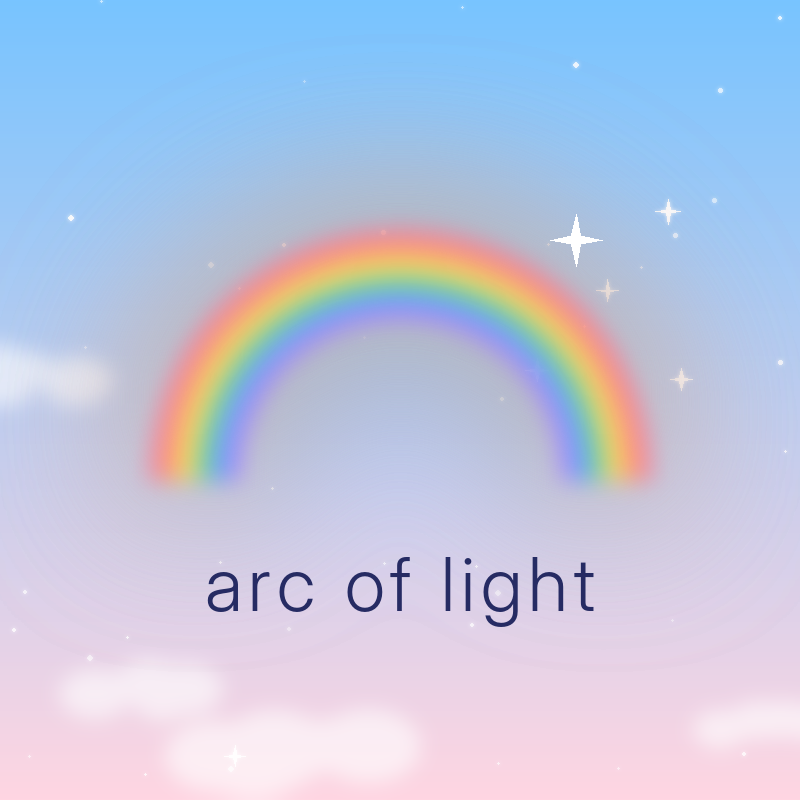
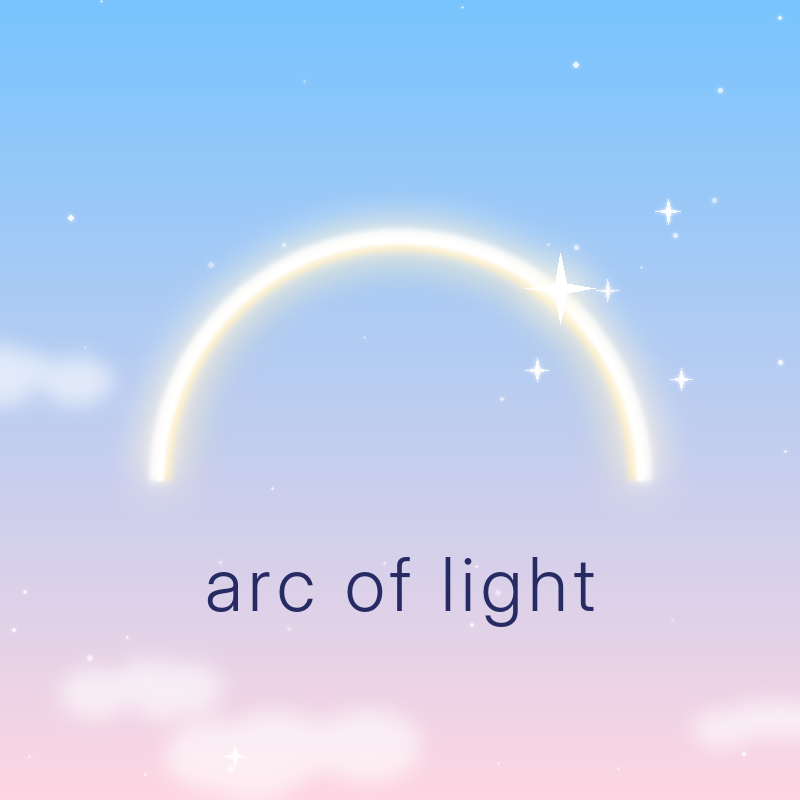
arc of light：昼の広場の写真版（虹なし・光の弧）のアイコンとバナー
Claude-Session: https://claude.ai/code/session_016yye45m5vLS41jvX7Nye7Y

Changed region(s): [[0.125, 0.1875, 0.875, 0.625]]

diff --git a/arc_of_light/make_brand_images.py b/arc_of_light/make_brand_images.py
@@ -116,8 +116,17 @@ def text(im, s, font, cx, cy, spacing, fill=(255, 255, 255, 245), glow=True):
     im.alpha_composite(layer)
 
 
-# 昼の虹は色をはっきりめに
-DAY_RAINBOW = [(255, 120, 150), (255, 170, 100), (255, 220, 90), (110, 215, 150), (90, 170, 255), (165, 130, 255)]
+# 昼の版は虹ではなく「光の弧」：白から淡い金色の細い弧を、明るく光らせる
+LIGHT_ARC = [(255, 255, 255), (255, 247, 220), (255, 232, 170)]
+
+
+def flare(im, x, y, s):
+    # 弧の先に置く光の粒（大きなきらめき＋やわらかい光の輪）
+    layer = Image.new("RGBA", im.size, (255, 255, 255, 0))
+    d = ImageDraw.Draw(layer)
+    d.ellipse([x - s, y - s, x + s, y + s], fill=(255, 250, 225, 200))
+    im.alpha_composite(blur(layer, s * 0.9))
+    star(ImageDraw.Draw(im), x, y, s * 1.6, 255)
 
 
 def clouds(size, seed, n, avoid=None):
@@ -144,8 +153,9 @@ def icon_day():
     im = gradient(w, h, DAY_TOP, DAY_BOTTOM).convert("RGBA")
     im.alpha_composite(clouds((w, h), 2, 4, avoid=(120, 180, 680, 680)))
     im.alpha_composite(sparkles((w, h), 40, 5, big=5, avoid=(150, 520, 650, 650)))
-    im.alpha_composite(arc((w, h), w / 2, h * 0.60, 250, 90, DAY_RAINBOW))
-    star(ImageDraw.Draw(im), w * 0.72, h * 0.30, 26, 255)
+    im.alpha_composite(arc((w, h), w / 2, h * 0.60, 250, 22, LIGHT_ARC))
+    im.alpha_composite(arc((w, h), w / 2, h * 0.60, 244, 8, [(255, 255, 255)]))
+    flare(im, w / 2 + 250 * math.cos(math.radians(-50)), h * 0.60 + 250 * math.sin(math.radians(-50)), 22)
     text(im, "arc of light", ImageFont.truetype(FONT, 74), w / 2, h * 0.73, 6, fill=INK, glow=False)
     im.convert("RGB").save(OUT / "icon_day_800.png")
 
@@ -156,7 +166,9 @@ def banner_day():
     sx0, sy0 = (w - 1546) / 2, (h - 423) / 2
     im.alpha_composite(clouds((w, h), 9, 9, avoid=(sx0 - 100, sy0 - 80, sx0 + 1646, sy0 + 503)))
     im.alpha_composite(sparkles((w, h), 160, 11, big=12, avoid=(sx0 - 60, sy0 - 60, sx0 + 1606, sy0 + 483)))
-    im.alpha_composite(arc((w, h), w / 2, sy0 + 330, 300, 70, DAY_RAINBOW))
+    im.alpha_composite(arc((w, h), w / 2, sy0 + 330, 300, 24, LIGHT_ARC))
+    im.alpha_composite(arc((w, h), w / 2, sy0 + 330, 294, 8, [(255, 255, 255)]))
+    flare(im, w / 2 + 300 * math.cos(math.radians(-50)), sy0 + 330 + 300 * math.sin(math.radians(-50)), 26)
     text(im, "arc of light", ImageFont.truetype(FONT, 120), w / 2, sy0 + 265, 12, fill=INK, glow=False)
     text(im, "pop  ·  chill  ·  ballad  ·  bgm", ImageFont.truetype(FONT, 40), w / 2, sy0 + 372, 10, fill=(60, 64, 120, 230), glow=False)
     im.convert("RGB").save(OUT / "banner_day_2560x1440.png")
@@ -196,3 +208,58 @@ if __name__ == "__main__":
     icon_day()
     banner_day()
     print("done")
+
+
+def photo_bg(path, w, h, bright=1.08, soften=0):
+    # 写真を枠いっぱいに切り抜き、少し明るく、やわらかくする
+    from PIL import ImageEnhance
+    p = Image.open(path).convert("RGB")
+    s = max(w / p.width, h / p.height)
+    p = p.resize((int(p.width * s) + 1, int(p.height * s) + 1), Image.LANCZOS)
+    x, y = (p.width - w) // 2, (p.height - h) // 2
+    p = p.crop((x, y, x + w, y + h))
+    p = ImageEnhance.Brightness(p).enhance(bright)
+    p = ImageEnhance.Color(p).enhance(1.1)
+    if soften:
+        # ぼかして、写真の中の看板や文字を読めなくし、ロゴの文字を引き立てる
+        p = p.filter(ImageFilter.GaussianBlur(soften))
+    return p.convert("RGBA")
+
+
+def veil(size, box, a=120):
+    # 文字の後ろだけ白くかすませて読みやすくする
+    layer = Image.new("RGBA", size, (255, 255, 255, 0))
+    ImageDraw.Draw(layer).rounded_rectangle(box, radius=(box[3] - box[1]) / 2, fill=(255, 255, 255, a))
+    return blur(layer, (box[3] - box[1]) * 0.18)
+
+
+def plaza_icon():
+    w = h = 800
+    im = photo_bg(OUT / "plaza_1.jpg", w, h, soften=7)
+    im.alpha_composite(veil((w, h), (90, 480, 710, 650), 200))
+    im.alpha_composite(arc((w, h), w / 2, h * 0.70, 230, 20, LIGHT_ARC))
+    im.alpha_composite(arc((w, h), w / 2, h * 0.70, 225, 7, [(255, 255, 255)]))
+    flare(im, w / 2 + 230 * math.cos(math.radians(-50)), h * 0.70 + 230 * math.sin(math.radians(-50)), 20)
+    text(im, "arc of light", ImageFont.truetype(FONT, 76), w / 2, h * 0.70, 6, fill=INK, glow=False)
+    im.convert("RGB").save(OUT / "icon_plaza_800.png")
+
+
+def plaza_banner():
+    w, h = 2560, 1440
+    im = photo_bg(OUT / "plaza_1.jpg", w, h, soften=14)
+    sx0, sy0 = (w - 1546) / 2, (h - 423) / 2
+    im.alpha_composite(veil((w, h), (sx0 + 260, sy0 + 175, sx0 + 1286, sy0 + 410), 205))
+    im.alpha_composite(arc((w, h), w / 2, sy0 + 330, 300, 24, LIGHT_ARC))
+    im.alpha_composite(arc((w, h), w / 2, sy0 + 330, 294, 8, [(255, 255, 255)]))
+    flare(im, w / 2 + 300 * math.cos(math.radians(-50)), sy0 + 330 + 300 * math.sin(math.radians(-50)), 26)
+    text(im, "arc of light", ImageFont.truetype(FONT, 120), w / 2, sy0 + 265, 12, fill=INK, glow=False)
+    text(im, "pop  ·  chill  ·  ballad  ·  bgm", ImageFont.truetype(FONT, 40), w / 2, sy0 + 372, 10, fill=(60, 64, 120, 235), glow=False)
+    im.convert("RGB").save(OUT / "banner_plaza_2560x1440.png")
+    chk = im.copy()
+    ImageDraw.Draw(chk).rectangle([sx0, sy0, sx0 + 1546, sy0 + 423], outline=(255, 80, 80, 255), width=4)
+    chk.convert("RGB").resize((1280, 720)).save(OUT / "banner_plaza_safe_area_check.png")
+
+
+if __name__ == "__main__":
+    plaza_icon()
+    plaza_banner()
